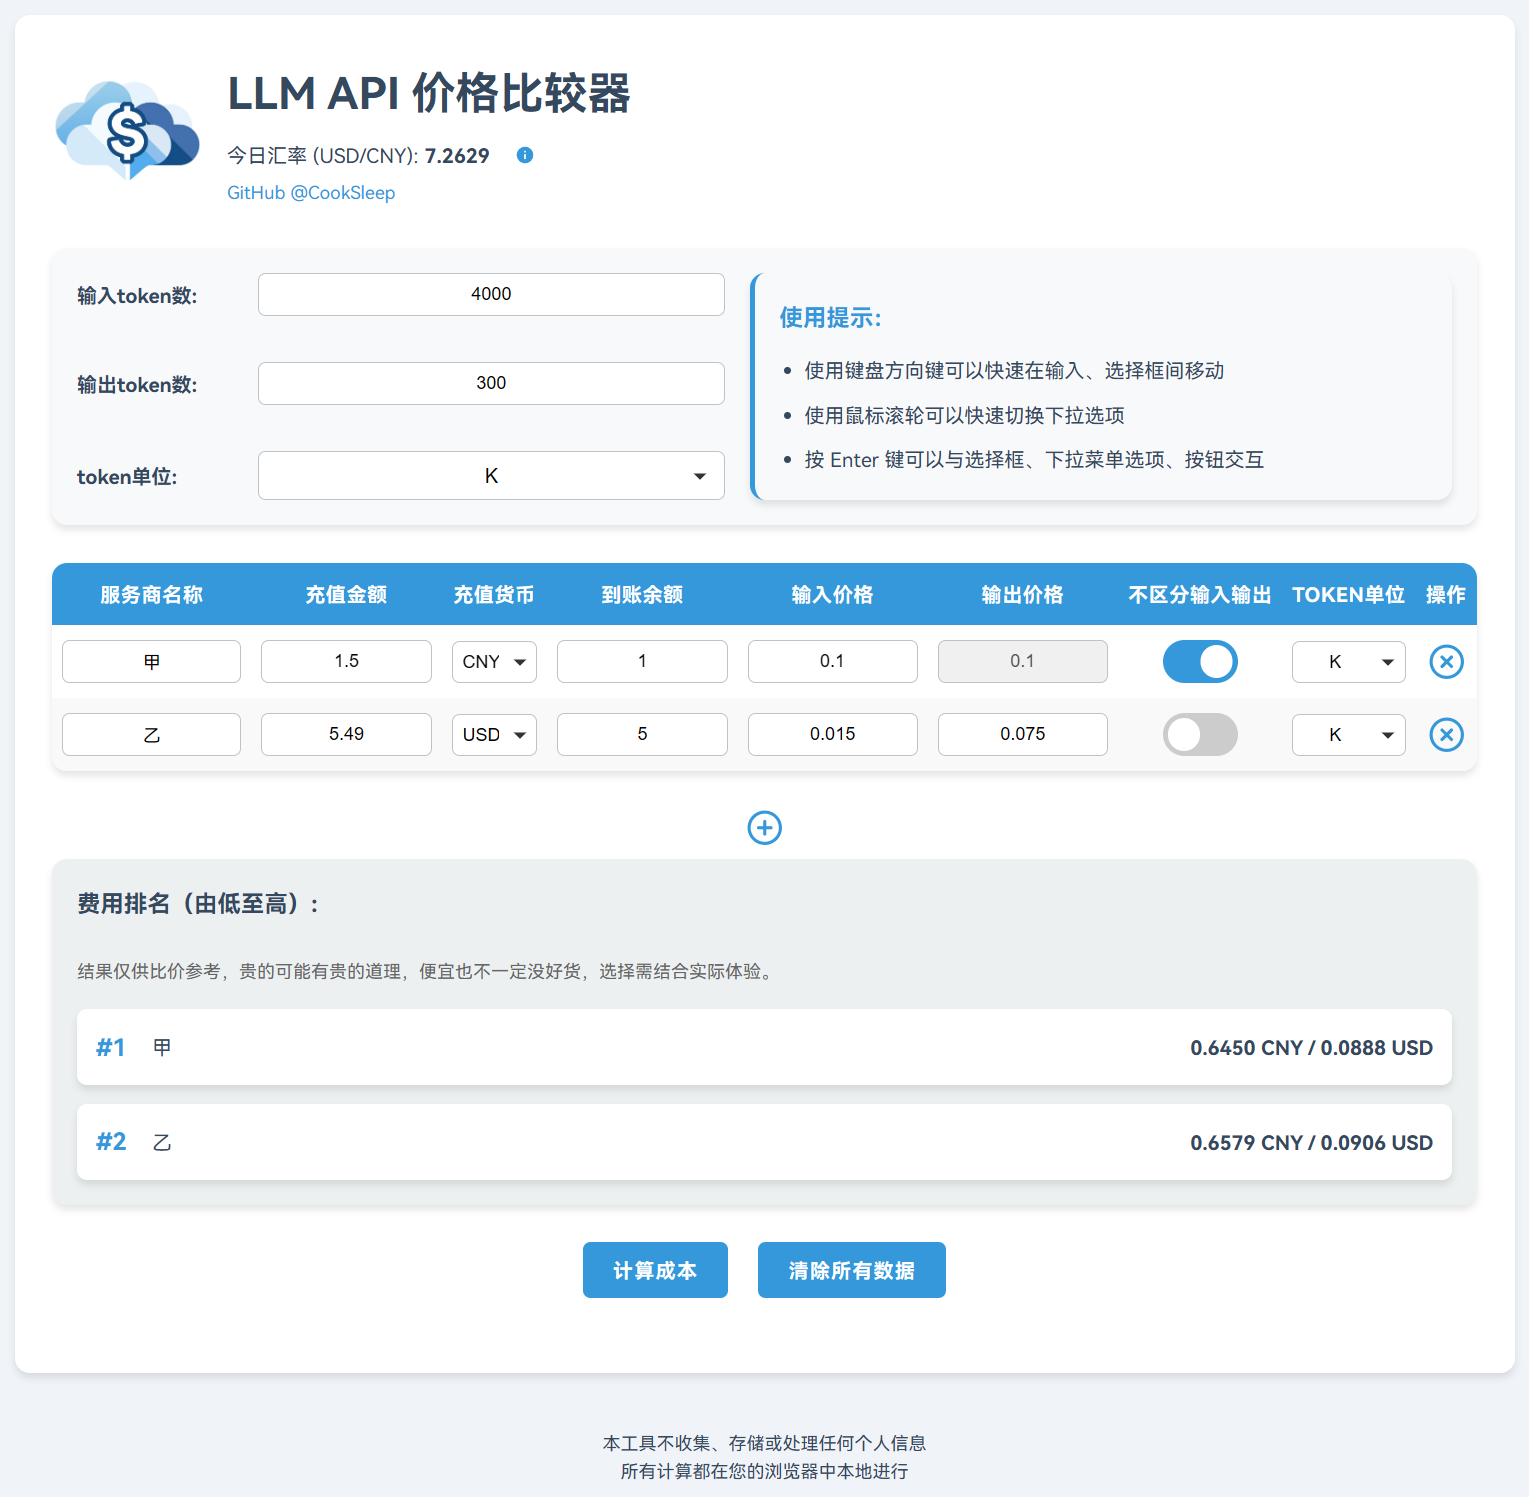
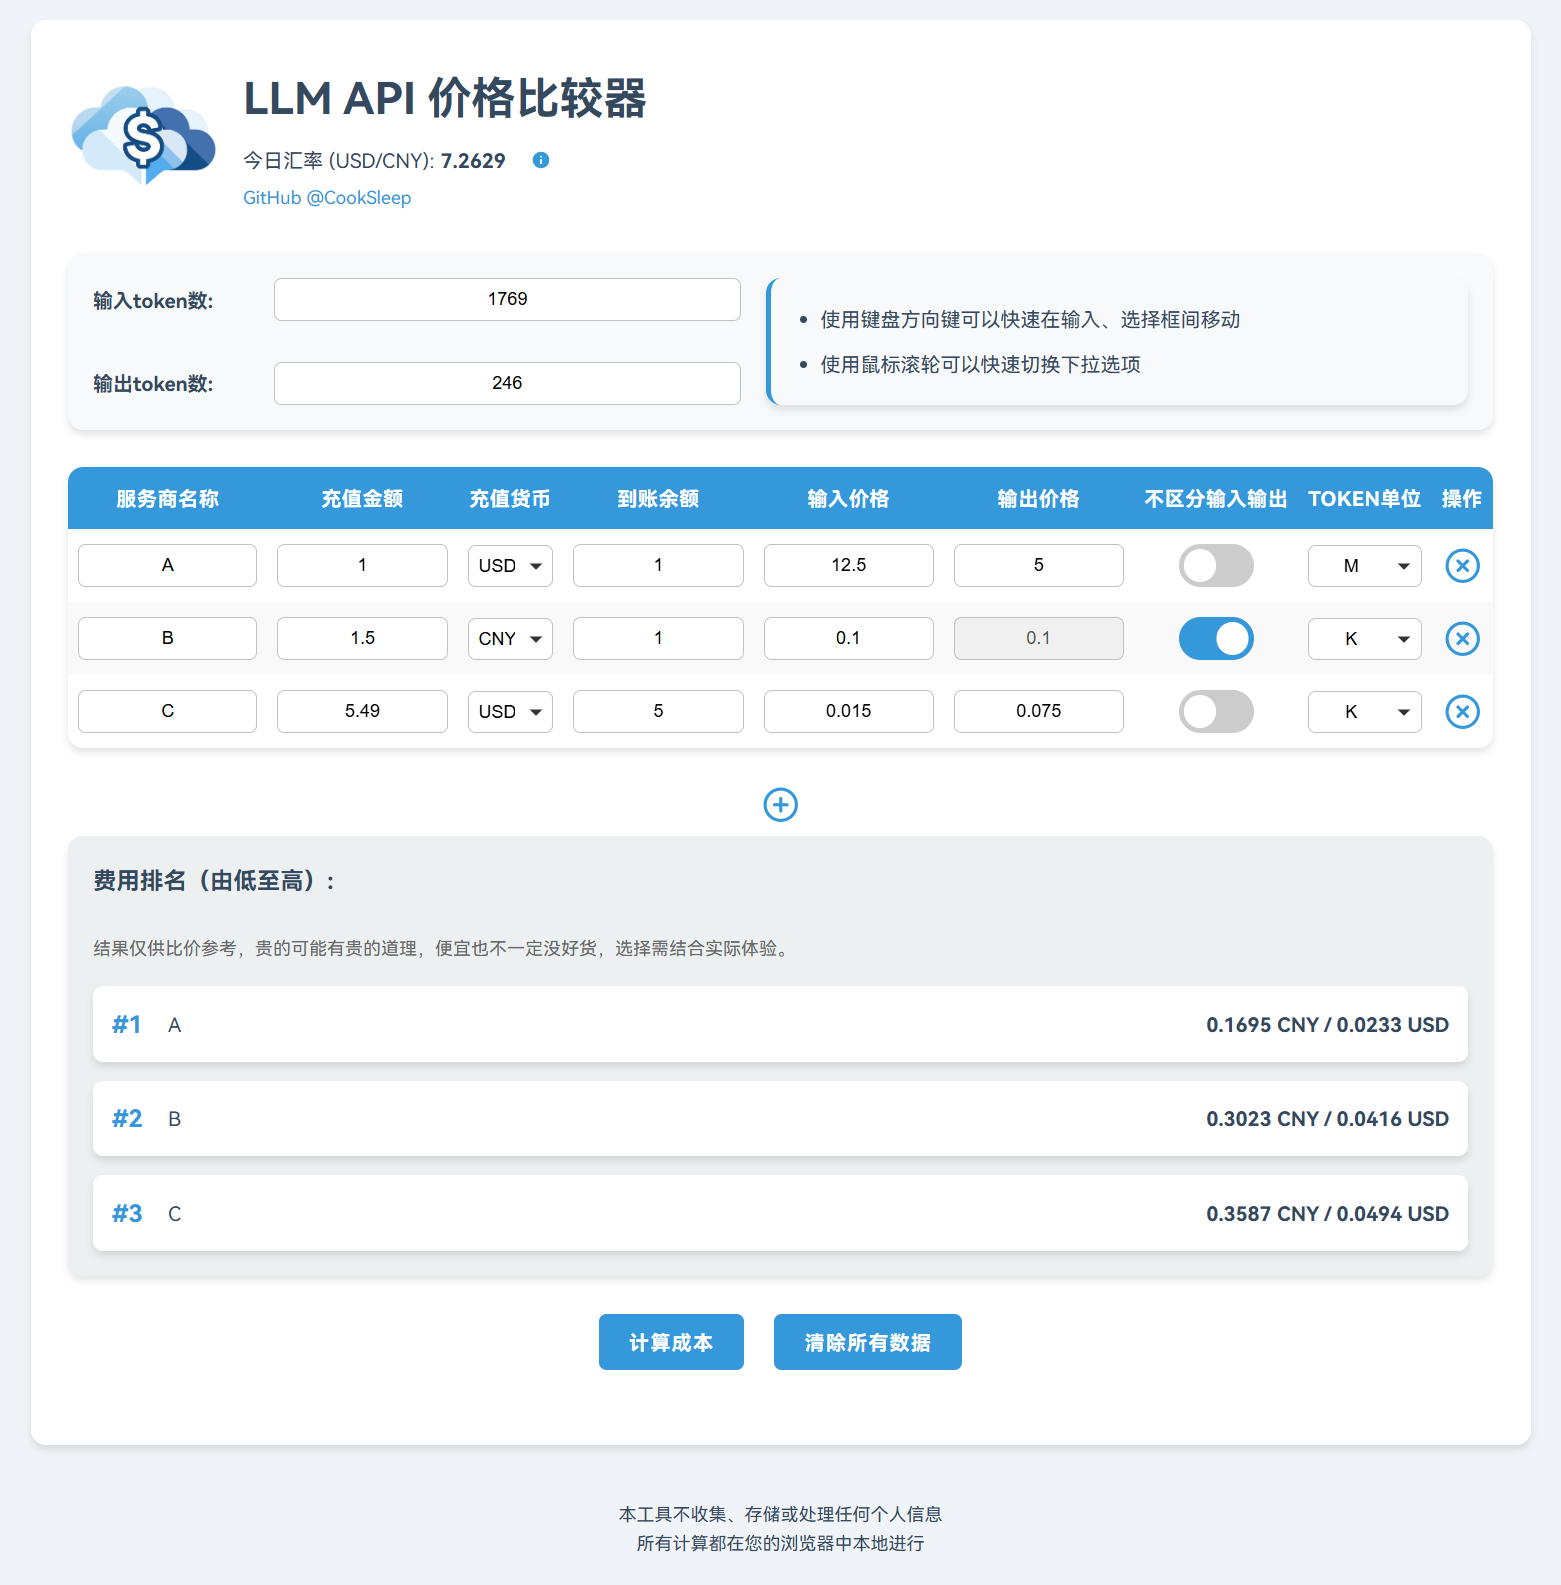
Fix price calculation related errors

diff --git a/index.html b/index.html
@@ -1,120 +1,220 @@
 <!DOCTYPE html>
 <html lang="zh-CN">
+
 <head>
+
     <meta charset="UTF-8">
+
     <meta name="viewport" content="width=device-width, initial-scale=1.0">
+
     <title>LLM API 价格比较器</title>
+
     <link rel="stylesheet" href="styles.css">
+
     <link rel="icon" href="LLM_API_Price_Comparator.png" type="image/png">
-    <meta name="description" content="LLM API 价格比较器 - 比较不同LLM API服务商的价格,自动获取美元/人民币汇率,帮助用户选择最合适的服务。">
+
+    <meta name="description" content="LLM API 价格比较器 - 比较不同LLM API服务商的价格,自动获取美元/人民币汇率，帮助用户选择最合适的服务。">
+
     <meta name="keywords" content="LLM, API, 价格比较, 汇率, AI, 机器学习, 成本计算">
+
     <meta name="author" content="CookSleep">
+
 </head>
+
 <body>
+
     <div id="main-content">
+
         <div class="container">
+
             <header>
+
                 <div class="logo-container">
+
                     <img src="LLM_API_Price_Comparator.png" alt="LLM API 价格比较器 Logo" class="logo">
+
                 </div>
+
                 <div class="header-right">
+
                     <h1>LLM API 价格比较器</h1>
+
                     <div class="exchange-rate-container">
+
                         <span id="exchangeRateLabel">今日汇率 (USD/CNY): </span>
+
                         <span id="exchangeRateValue">获取中...</span>
+
                         <svg class="info-icon" viewBox="0 0 24 24" width="16" height="16">
+
                             <path d="M12 2C6.48 2 2 6.48 2 12s4.48 10 10 10 10-4.48 10-10S17.52 2 12 2zm1 15h-2v-6h2v6zm0-8h-2V7h2v2z"/>
+
                         </svg>
+
                         <div class="tooltip">汇率数据来源：Alpha Vantage API<br>每日更新时间：北京时间 09:30</div>
+
                     </div>
+
                     <a href="https://github.com/CookSleep/LLM_API_Price_Comparator_Web" target="_blank" class="github-link">GitHub @CookSleep</a>
+
                 </div>
+
             </header>
+
             
+
             <div class="input-section">
+
                 <div class="token-input">
+
                     <div>
+
                         <label for="inputtokens">输入token数:</label>
+
                         <input type="number" id="inputtokens" placeholder="仅数字" step="any">
+
                     </div>
+
                     <div>
+
                         <label for="outputtokens">输出token数:</label>
+
                         <input type="number" id="outputtokens" placeholder="仅数字" step="any">
+
                     </div>
-                    <div>
-                        <label for="tokenunit">token单位:</label>
-                        <select id="tokenunit">
-                            <option value="1000">K</option>
-                            <option value="1000000">M</option>
-                        </select>
-                    </div>
+
                 </div>
+
                 <div class="usage-tips">
-                    <h3>使用提示：</h3>
+
                     <ul>
+
                         <li>使用键盘方向键可以快速在输入、选择框间移动</li>
+
                         <li>使用鼠标滚轮可以快速切换下拉选项</li>
-                        <li>按 Enter 键可以与选择框、下拉菜单选项、按钮交互</li>
+                    
                     </ul>
+
                 </div>
+
             </div>  
+
             
+
             <div class="table-container">
+
                 <table id="providersTable">
+
                     <thead>
+
                         <tr>
+
                             <th>服务商名称</th>
+
                             <th>充值金额</th>
+
                             <th>充值货币</th>
+
                             <th>到账余额</th>
+
                             <th>输入价格</th>
+
                             <th>输出价格</th>
+
                             <th>不区分输入输出</th>
+
                             <th>token单位</th>
+
                             <th>操作</th>
+
                         </tr>
+
                     </thead>
+
                     <tbody>
+
                         <!-- 表格 -->
+
                     </tbody>
+
                 </table>
+
             </div>
+
+
 
             <button id="addProviderBtn" class="add-btn">
+
                 <svg class="icon" viewBox="0 0 24 24">
+
                     <circle cx="12" cy="12" r="10"/>
+
                     <line x1="12" y1="8" x2="12" y2="16"/>
+
                     <line x1="8" y1="12" x2="16" y2="12"/>
+
                 </svg>
+
             </button>
 
+
+
             <div class="results">
+
                 <h3>费用排名（由低至高）:</h3>
+
                 <p class="results-disclaimer">结果仅供比价参考，贵的可能有贵的道理，便宜也不一定没好货，选择需结合实际体验。</p>
+
                 <div id="results-list"></div>
+
             </div>                                 
 
+
+
             <div class="actions">
+
                 <button id="calculateBtn">计算成本</button>
+
                 <button id="clearAllBtn">清除所有数据</button>
+
             </div>
+
         </div>
+
     </div>
 
+
+
     <div id="customAlert" class="modal">
+
         <div class="modal-content">
+
             <p id="alertMessage"></p>
+
             <div class="alert-buttons">
+
                 <button id="alertConfirm">确定</button>
+
                 <button id="alertCancel">取消</button>
+
             </div>
+
         </div>
+
     </div>   
 
+
+
     <footer>
+
         <p>本工具不收集、存储或处理任何个人信息<br>所有计算都在您的浏览器中本地进行</p>
+
     </footer>    
+
     
+
     <script src="script.js"></script>
+
 </body>
+
 </html>

diff --git a/script.js b/script.js
@@ -151,43 +151,74 @@ function calculateCosts() {
 
     const inputTokens = parseFloat(document.getElementById('inputtokens').value) || 0;
     const outputTokens = parseFloat(document.getElementById('outputtokens').value) || 0;
-    const tokenUnitValue = parseFloat(document.getElementById('tokenunit').value);
-    const inputTokensInBaseUnit = inputTokens * tokenUnitValue;
-    const outputTokensInBaseUnit = outputTokens * tokenUnitValue;
 
-    const results = calculateProviderCosts(inputTokensInBaseUnit, outputTokensInBaseUnit);
+    const results = calculateProviderCosts(inputTokens, outputTokens);
     displayResults(results);
 }
 
-function calculateProviderCosts(inputTokensInBaseUnit, outputTokensInBaseUnit) {
+function get_price_per_token(price, unit) {
+    if (unit === "1000") { // K
+        return price / 1000;
+    } else if (unit === "1000000") { // M
+        return price / 1000000;
+    }
+    return price; 
+}
+
+function calculateProviderCosts(inputTokens, outputTokens) {
     return Array.from(document.querySelectorAll('#providersTable tbody tr'))
-        .map(row => calculateProviderCost(row, inputTokensInBaseUnit, outputTokensInBaseUnit))
+        .map(row => calculateProviderCost(row, inputTokens, outputTokens))
         .filter(result => result !== null);
 }
 
-function calculateProviderCost(row, inputTokensInBaseUnit, outputTokensInBaseUnit) {
+function calculateProviderCost(row, inputTokens, outputTokens) {
     try {
-        const providerName = row.querySelector('.provider-name').value;
-        const rechargeAmount = parseFloat(row.querySelector('.recharge-amount').value);
+        const providerName = row.querySelector('.provider-name').value.trim();
+        const recharge_amount = parseFloat(row.querySelector('.recharge-amount').value);
         const currency = row.querySelector('.currency').value;
         const balance = parseFloat(row.querySelector('.balance').value);
-        const inputPrice = parseFloat(row.querySelector('.input-price').value);
-        const samePrice = row.querySelector('.same-price').checked;
-        const outputPrice = samePrice ? inputPrice : parseFloat(row.querySelector('.output-price').value);
-        const tokenUnit = parseFloat(row.querySelector('.token-unit').value);
+        const input_price = parseFloat(row.querySelector('.input-price').value);
+        const output_price = parseFloat(row.querySelector('.output-price').value);
+        const same_price_checked = row.querySelector('.same-price').checked;
+        const price_unit = row.querySelector('.token-unit').value;
 
-        let rechargeAmountCNY = rechargeAmount;
-        if (currency === 'USD') {
-            rechargeAmountCNY *= exchangeRate;
+        if (!providerName || isNaN(recharge_amount) || isNaN(balance) || isNaN(input_price) || (isNaN(output_price) && !same_price_checked)) {
+            return null;
         }
 
-        const costPerTokenInput = (rechargeAmountCNY / balance) * inputPrice / tokenUnit;
-        const costPerTokenOutput = (rechargeAmountCNY / balance) * outputPrice / tokenUnit;
+        // 计算充值汇率
+        // recharge_rate = recharge_amount / recharge_balance
+        const recharge_rate = recharge_amount / balance;
 
-        const totalCostCNY = (costPerTokenInput * inputTokensInBaseUnit + costPerTokenOutput * outputTokensInBaseUnit) / tokenUnit;
-        const totalCostUSD = totalCostCNY / exchangeRate;
+        // 将输入、输出价格转换为每token价格
+        const input_price_per_token = get_price_per_token(input_price, price_unit);
+        const output_price_per_token = same_price_checked ? input_price_per_token : get_price_per_token(output_price, price_unit);
 
-        return { name: providerName, costCNY: totalCostCNY, costUSD: totalCostUSD };
+        // 根据是否区分输入输出计算总费用（balance单位的cost）
+        let total_cost;
+        if (same_price_checked) {
+            // 不区分输入输出
+            total_cost = (inputTokens + outputTokens) * input_price_per_token;
+        } else {
+            // 区分输入输出
+            const input_cost = inputTokens * input_price_per_token;
+            const output_cost = outputTokens * output_price_per_token;
+            total_cost = input_cost + output_cost;
+        }
+
+        // 根据充值货币和汇率换算成CNY和USD
+        let cost_cny, cost_usd;
+        if (currency === "CNY") {
+            // cost in CNY = total_cost * recharge_rate
+            cost_cny = total_cost * recharge_rate;
+            cost_usd = cost_cny / exchangeRate;
+        } else if (currency === "USD") {
+            // cost in USD = total_cost * recharge_rate
+            cost_usd = total_cost * recharge_rate;
+            cost_cny = cost_usd * exchangeRate;
+        }
+
+        return { name: providerName, costCNY: cost_cny, costUSD: cost_usd };
     } catch (error) {
         console.error(`计算错误: ${error.message}`);
         return null;
@@ -279,7 +310,6 @@ function clearAllData() {
             }).then(() => {
                 document.getElementById('inputtokens').value = '';
                 document.getElementById('outputtokens').value = '';
-                document.getElementById('tokenunit').selectedIndex = 0;
                 clearErrors();
                 ensureMinimumRows();
                 updateNavigationArray();
@@ -382,8 +412,7 @@ function clearErrors() {
 function updateNavigationArray() {
     navigationArray = [
         [document.getElementById('inputtokens')],
-        [document.getElementById('outputtokens')],
-        [document.getElementById('tokenunit')]
+        [document.getElementById('outputtokens')]
     ];
 
     const rows = document.querySelectorAll('#providersTable tbody tr');
